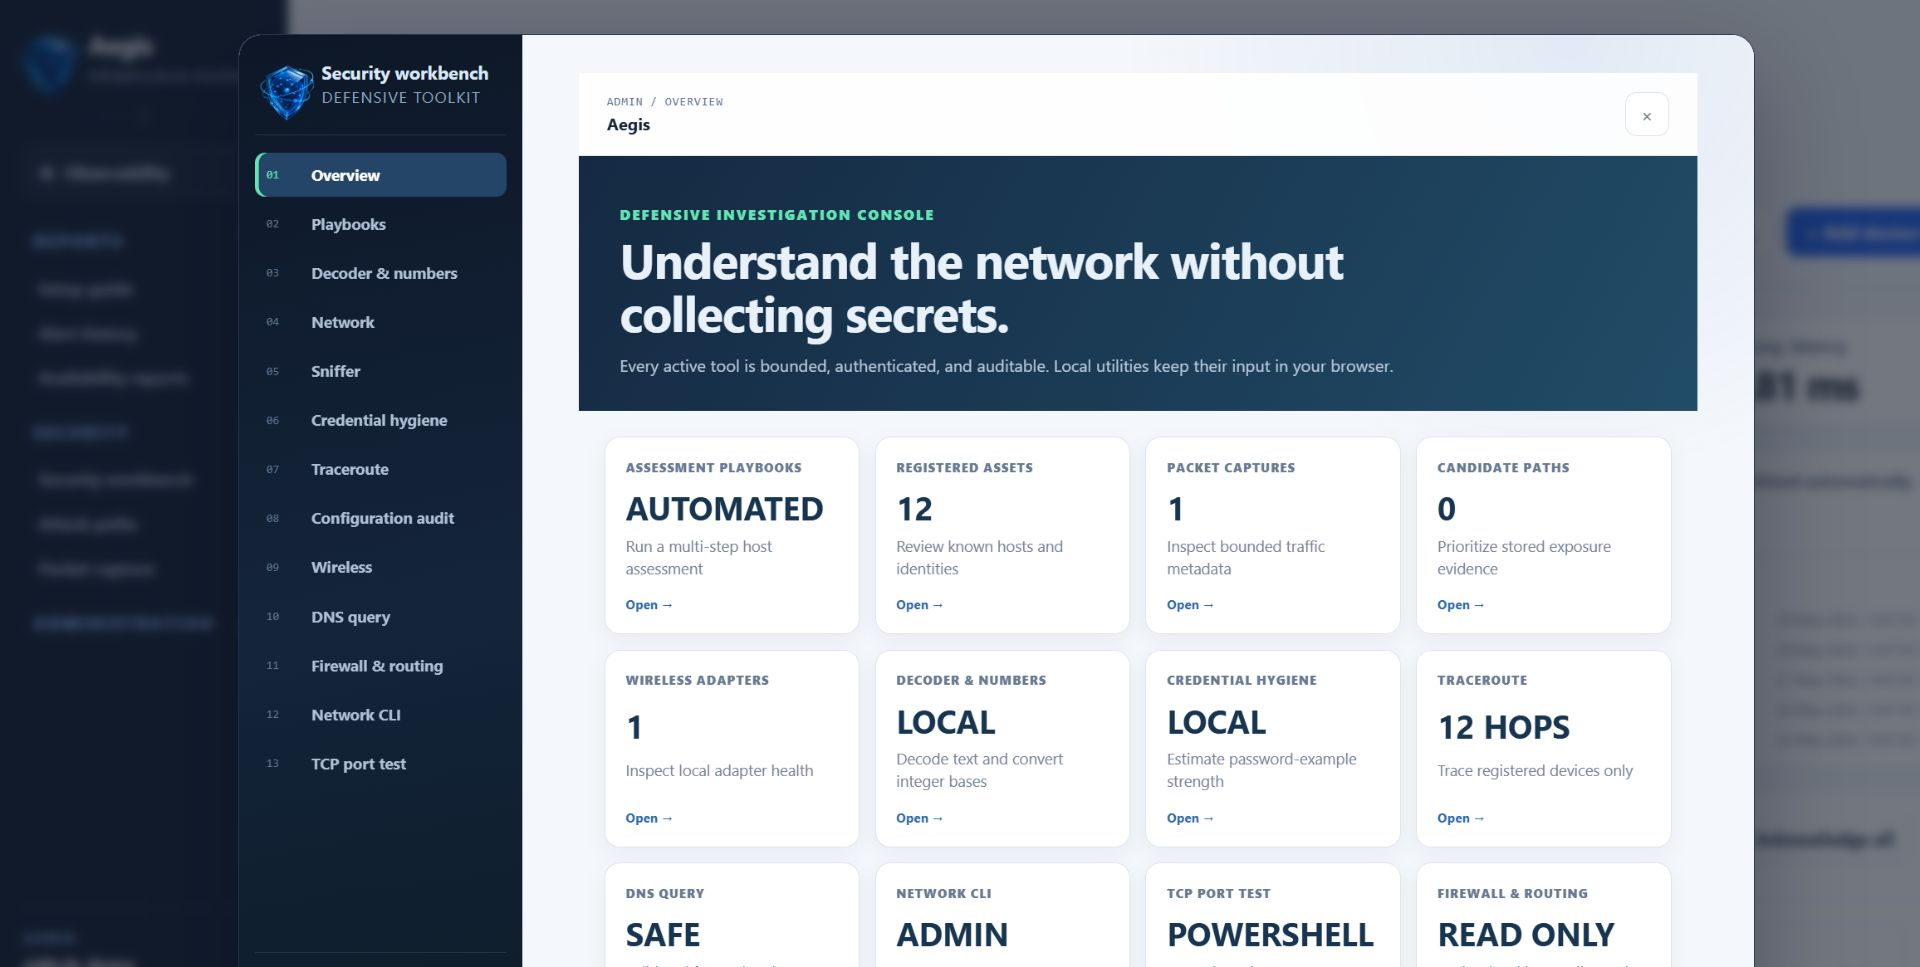
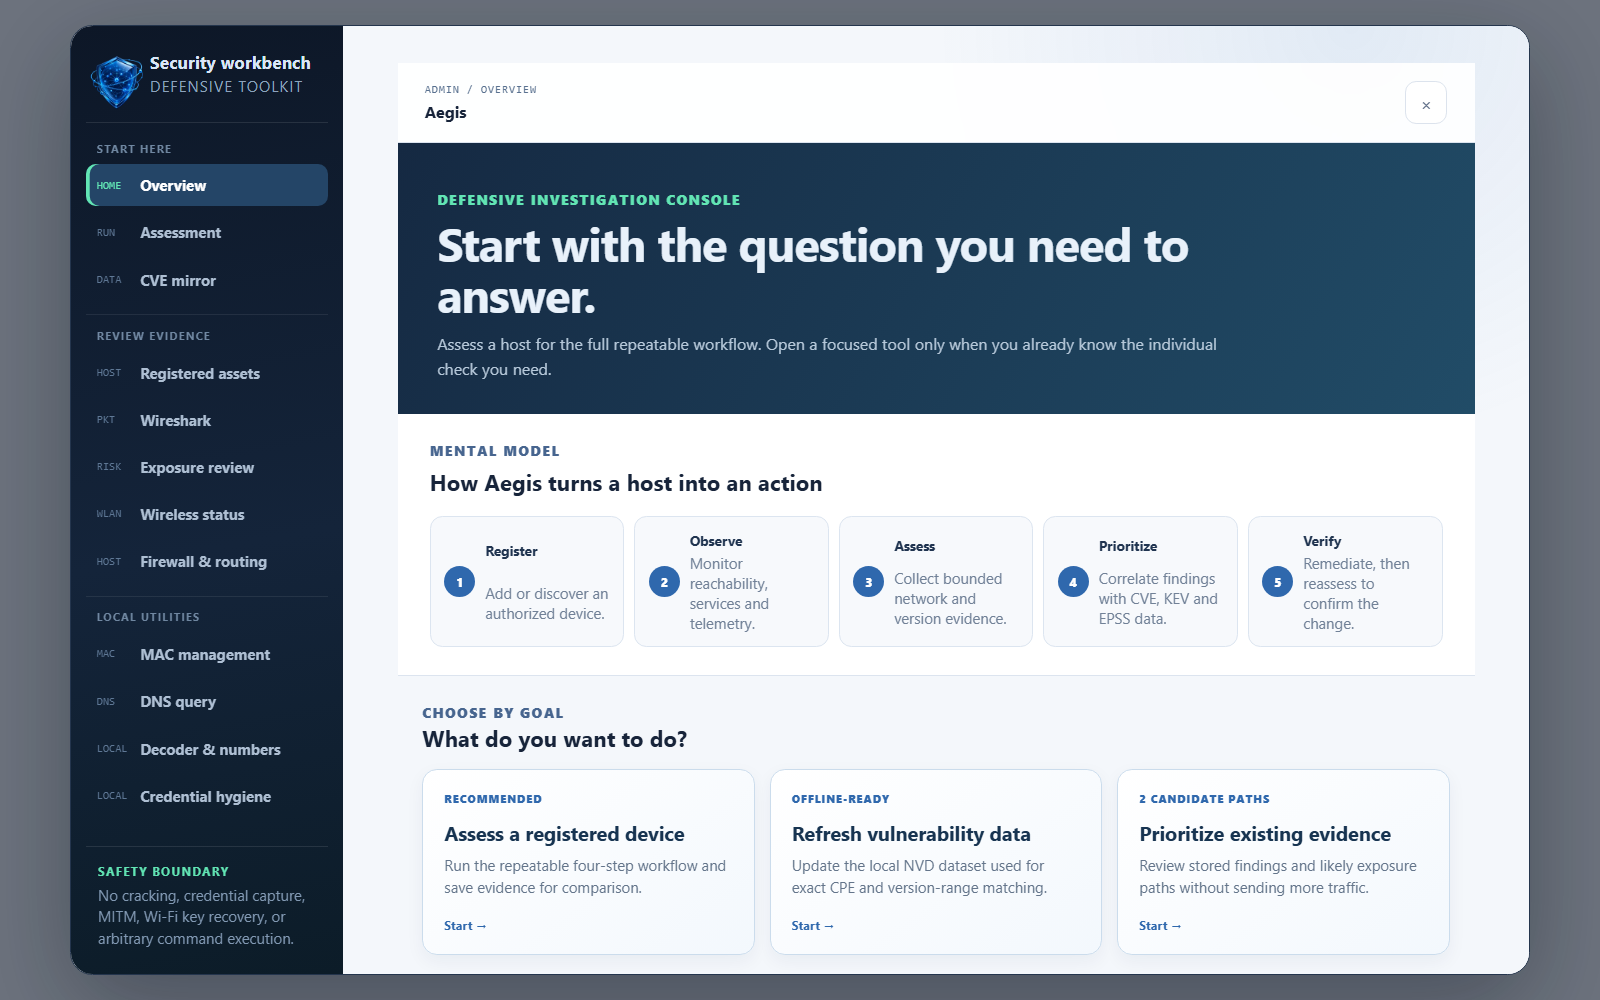
docs: refresh security workbench overview screenshot

diff --git a/frontend/src/SecurityWorkbenchModal.jsx b/frontend/src/SecurityWorkbenchModal.jsx
@@ -51,7 +51,7 @@ const TOOLS = [
   ["configuration", "Exposure review", "RISK"],
   ["wireless", "Wireless status", "WLAN"],
   ["policy", "Firewall & routing", "HOST"],
-  ["mac", "MAC yönetimi", "MAC"],
+  ["mac", "MAC management", "MAC"],
   ["query", "DNS query", "DNS"],
   ["decoder", "Decoder & numbers", "LOCAL"],
   ["credentials", "Credential hygiene", "LOCAL"],

diff --git a/README.md b/README.md
@@ -146,29 +146,25 @@ Attack-surface findings and passive attack paths are prioritization evidence, no
 
 ### Security workbench
 
-The administrator-only **Security workbench** consolidates defensive investigation tools without turning Aegis into a credential or interception suite. Active tools accept registered unicast hosts; network, broadcast, multicast, and unspecified addresses are rejected as single-device targets.
+The administrator-only **Security workbench** now opens with a five-stage investigation guide and three goal-based starting points: assess a registered device, refresh vulnerability data, or prioritize stored evidence. Its navigation groups assessment and CVE data, evidence review, and local utilities. Active network tools accept registered unicast hosts; network, broadcast, multicast, and unspecified addresses are rejected as single-device targets.
 
-![Aegis security workbench overview with available defensive tools and live evidence](docs/screenshots/05-security-workbench.png)
+![Current Aegis Security workbench overview with the investigation guide and goal-based starting points](docs/screenshots/05-security-workbench.png)
 
-*Security workbench overview and live evidence from registered assets.*
+*Current Security workbench Overview, captured with synthetic demonstration data. The five-stage guide leads to a repeatable assessment, local CVE refresh, or review of stored exposure evidence.*
 
-| Tool | What it does |
+| Workbench area | What it does |
 |---|---|
-| Decoder and encoder | Converts Base64, hexadecimal, and URL components entirely in the browser. Input is not sent to the API. |
-| Integer and bitwise converter | Converts practical-size integers between decimal, hexadecimal, binary, and octal and performs signed AND, OR, XOR, NOT, left-shift, and right-shift operations locally. |
-| Secure password generator | Generates random 16-, 20-, 24-, or 32-character passwords with browser cryptographic randomness and supports masked display and copying. |
-| Password-strength guide | Evaluates a disposable example locally, displays a four-stage strength meter, and explains how length, character variety, repetition, sequences, and predictable words affect the result. Real passwords should never be entered. |
-| Registered inventory search | Searches known assets and their recorded details without scanning arbitrary targets. |
-| Wireshark | Opens the Docker Wireshark GUI, explains capture versus display filters and generates registered-device filter examples. Existing metadata records remain readable under legacy capture history. |
-| Traceroute | Runs a validated trace of at most 12 hops and 20 seconds to a selected registered device. |
-| Configuration review | Highlights incomplete inventory records and summarizes stored candidate attack paths without extracting device configurations. |
-| DNS query | Performs validated forward and reverse DNS lookups without constructing shell commands from user input. |
-| TLS inspection | Runs `sslscan` or an OpenSSL certificate/session inspection against a registered device and selected TLS port. Execution is capped, application data is not sent, and Heartbleed probing is disabled. |
-| Web technology and exposure checks | Runs WhatWeb's light fingerprint profile or a non-interactive Nikto assessment against one HTTP(S) endpoint on a registered device. Operators choose the scheme, port, and validated path; Nikto is capped at 45 seconds. |
-| SMB posture | Lists services through an anonymous `smbclient` session or runs fixed Nmap scripts for SMB protocol, signing, and time posture. The API does not accept usernames, passwords, hashes, domains, or arbitrary scripts. |
-| Network CLI | Runs administrator-only Nmap TCP scans and a separate bounded scan of up to 64 UDP ports against registered devices. TCP scanning defaults to an IDS-friendly traffic policy capped at 100 probes per second, with an explicit fast-mode override. Both provide Fast, Detailed (`-sV --version-light`), and Aggressive (`-sV --version-all`) depth where applicable. It also provides registered-host `fping`, local ARP discovery, `avahi-browse` DNS-SD inspection, the host neighbor table, HTTP(S) `curl`, WhatWeb, Nikto, `sslscan`, OpenSSL, anonymous `smbclient`, a fixed Nmap SMB posture check, and `dig`, `host`, or standard-record DNSRecon queries with optional literal line filtering. Commands use typed arguments, profile-specific timeouts, capped output, and closed stdin without invoking a shell. |
-| PowerShell TCP test | Tests up to 128 TCP ports concurrently on one registered device. PowerShell 7 uses `Test-Connection -TcpPort`; Windows PowerShell uses bounded .NET TCP socket probes. Results distinguish open ports, refused connections, unanswered probes, and errors, while targets and ports are passed as validated data rather than command text. |
-| Assessment workspace | Combines the persistent four-step playbook with manual checks on one page. Automated reachability and traceroute lead into Nmap top-1,000 discovery, mDNS identity, protocol-directed WhatWeb/OpenSSL/sslscan evidence, reused SMB NSE posture and CVE correlation, then DNS identity. Each selected tool's status, command and evidence are visible; profiles control depth and additional collection budgets. |
+| Assessment | Offers a saved four-step host workflow and focused manual checks. Manual options include bounded Nmap TCP/UDP scans, PowerShell TCP tests, traceroute, web and TLS inspection, SMB posture, and DNS tools for registered targets. |
+| CVE mirror | Refreshes the local NVD dataset with Modified, Recent, one-year, or Full synchronization and shows dataset status before matching. |
+| Registered assets | Searches known devices and their recorded identities without scanning arbitrary targets. |
+| Wireshark | Opens the Docker packet-analysis GUI, provides capture and display-filter guidance, and keeps earlier metadata-only records readable. |
+| Exposure review | Highlights incomplete inventory records and stored candidate attack paths without collecting new traffic. |
+| Wireless status | Shows local adapter health without collecting Wi-Fi keys or handshakes. |
+| Firewall & routing | Reads local host firewall and route information; it does not change network policy. |
+| MAC management | Changes a selected local Windows adapter only through its dedicated, explicit workflow; direct application requires an elevated native backend. |
+| DNS query | Performs validated forward and reverse lookups. |
+| Decoder & numbers | Converts text encodings and integer bases locally in the browser. |
+| Credential hygiene | Generates random passwords and rates disposable examples locally; real credentials are not collected. |
 
 The toolbox pins official **Nmap 7.991** and its matching probe/script database, with a verified source archive SHA-256. Managed Docker scans use SYN discovery (`-sS`, with `NET_RAW`); application fingerprints and host-side scans use TCP connect (`-sT`). This avoids a locally reproduced repeated-source-port connection failure during SYN-mode version detection. Detailed TCP service detection allows 90 seconds of host time; Aggressive allows 180 seconds (100/200-second process budgets). Top-1,000 scans fingerprint only discovered open ports and preserve discovery evidence if fingerprinting is incomplete. CLI output records the Nmap version, execution context and actual commands; assessments save scanner provenance alongside their findings.
 
